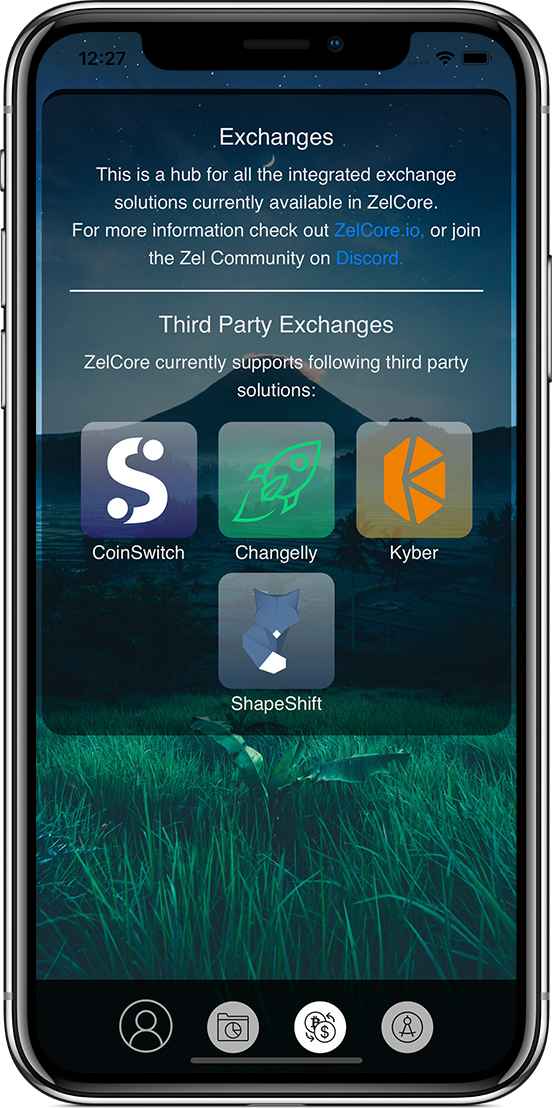
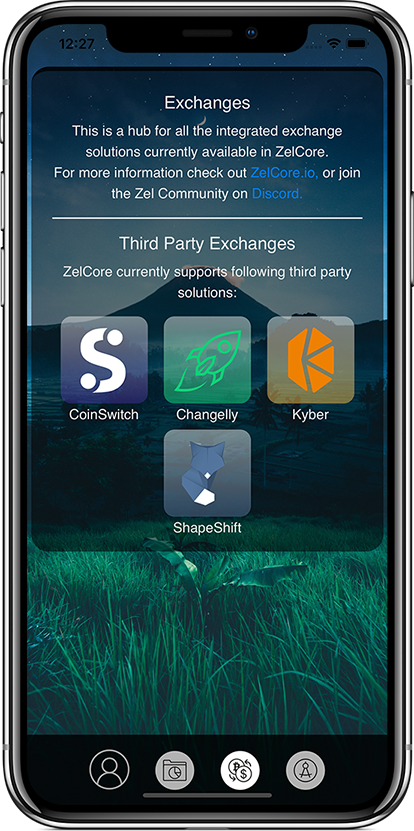
Smaller img sizes, fix Footer

diff --git a/project/zelcore/index.html b/project/zelcore/index.html
@@ -126,7 +126,7 @@
     <!-- ABOUT -->
     <div class="uk-position-relative">
         <div class="uk-position-absolute uk-position-center zelcorePosition uk-visible@s">
-            <img src="../../img/zelcore/Login.png">
+            <img class="desktopImg" src="../../img/zelcore/Login.jpg">
         </div>
         <div class="uk-position-absolute uk-position-center zelcorePosition uk-hidden@s">
             <img src="../../img/zelcore/Login-Mobile.png">
@@ -139,9 +139,19 @@
             <div class="uk-container uk-margin-xlarge-top uk-visible@s"></div>
             <div class="uk-container uk-margin-xlarge-top">
                 <div class="uk-grid-margin uk-grid uk-grid-stack" uk-grid>
-                    <div class="uk-width-1-1@m uk-first-column">
-                        <h1 class="uk-heading-primary uk-margin uk-text-center">About <span class="zel">zel</span>core</h1>
-                        <div class="uk-margin-medium uk-width-xlarge uk-margin-auto uk-text-center">ZelCore is a multi asset platform and wallet. It does this really well, but it does it even better in ZelCore+</div>
+                    <div class="uk-width-1-1@m uk-first-column uk-text-center">
+                        <h1 class="uk-heading-primary uk-margin">About <span class="zel">zel</span>core</h1>
+                        <div class="uk-margin-medium uk-width-xlarge uk-margin-auto">ZelCore is a multi asset platform and wallet. It does this really well, but it does it even better in ZelCore+</div>
+                    </div>
+                    <div class="uk-width-1-1@m uk-first-column uk-text-center">
+                        <h3>Supporting more than 100+ assets including</h3>
+                        <img src="../../img/assets/BTC.svg" class="smallImg" />
+                        <img src="../../img/assets/TUSD.svg" class="smallImg" />
+                        <img src="../../img/assets/ZEL.svg" class="smallImg" />
+                        <img src="../../img/assets/BNB.svg" class="smallImg" />
+                        <img src="../../img/assets/ETH.svg" class="smallImg" />
+                        <br>
+                        <a href="#assetsModal" uk-toggle><button class="uk-button zelcoreblack rounded uk-margin-top">And many more...</button></a>
                     </div>
                 </div>
             </div>
@@ -155,13 +165,13 @@
                 <h1 class="uk-heading-primary uk-text-left">Features</h1>
                 <div class="zelcoreFeatures uk-visible@m" uk-sticky="offset: 200; bottom: #featurestop">
                     <div class="uk-position-absolute">
-                        <img id="featureImage1" src="../../img/zelcore/Login.png">
+                        <img id="featureImage1" class="desktopImg" src="../../img/zelcore/Login.jpg">
                     </div>
                     <div class="uk-position-absolute">
-                        <img id="featureImage2" class="hidden" src="../../img/zelcore/Portfolio.png">
+                        <img id="featureImage2" class="desktopImg hidden" src="../../img/zelcore/Portfolio.jpg">
                     </div>
                     <div class="uk-position-absolute">
-                        <img id="featureImage3" class="hidden" src="../../img/zelcore/Exchanges.png">
+                        <img id="featureImage3" class="desktopImg hidden" src="../../img/zelcore/Exchanges.jpg">
                     </div>
                 </div>
             </div>
@@ -384,10 +394,9 @@
                 </div>
             </div>
             <div class="uk-child-width-expand@s" uk-grid>
-                <div>
+                <div class="uk-grid-item-match">
                     <p>Copyright &copy; 2019 Zel Technologies GmbH. All rights reserved.</p>
                 </div>
-            </div>
                 <div class="uk-text-right">
                     <a href="../../terms/index.html">Terms and Conditions</a>
                     <span class="uk-padding-small">|</span>

diff --git a/team/index.html b/team/index.html
@@ -172,10 +172,11 @@
                     <div class="uk-card-body">
                         <h1>Maxine</h1>
                         <h1 class="uk-h3 uk-margin-remove-top">Developer, Infra Team & Community Moderator</h1>
-                        <p>Maxine is a Senior Cybersecurity Specialist (network security and threat intelligence) from Singapore. His interest currently is the exploration of machine learning as well as technologies related to Cryptocurrency. Apart than that, he also a miner himself.</p>
+                        <p>Maxine is a Senior Cybersecurity Specialist (network security and threat intelligence) from Singapore. His interest currently is in the exploration of machine learning as well as technologies related to Cryptocurrency. Apart than that, he also a miner himself.</p>
                         <div class="social">
                             <a href="https://twitter.com/max1n_e" target="_blank" class="uk-button rounded twitter"><i class="fab fa-twitter"></i></a>
                             <a href="https://github.com/max1ne" target="_blank" class="uk-button rounded github"><i class="fab fa-github"></i></a>
+                            <a href="https://sg.linkedin.com/in/max1ne/" target="_blank" class="uk-button rounded linkedin"><i class="fab fa-linkedin"></i></a>
                             <a href="https://t.me/max1n_e" target="_blank" class="uk-button rounded telegram"><i class="fab fa-telegram"></i></a>
                         </div>
                     </div>
@@ -491,7 +492,7 @@
                     <div class="uk-card-body">
                         <h1><span class="zel">Marrios</span> Charmidis</h1>
                         <h1 class="uk-h3 uk-margin-remove-top">Zel Foundation, Community Moderator</h1>
-                        <p>Marrios Charmidis, the greek geek,is a passionate Mathematician and Blockchain Enthusiast. He joined the crypto industry in 2015. As a Discord Zel Moderator and Zelcore fan envisions a greater cryptocurrency adoption.</p>
+                        <p>Marrios Charmidis, the greek geek, is a passionate Mathematician and Blockchain Enthusiast. He joined the crypto industry in 2015. As a Discord Zel Moderator and Zelcore fan envisions a greater cryptocurrency adoption.</p>
                     </div>
                 </div>
             </div>
@@ -589,10 +590,9 @@
                 </div>
             </div>
             <div class="uk-child-width-expand@s" uk-grid>
-                <div>
+                <div class="uk-grid-item-match">
                     <p>Copyright &copy; 2019 Zel Technologies GmbH. All rights reserved.</p>
                 </div>
-            </div>
                 <div class="uk-text-right">
                     <a href="../terms/index.html">Terms and Conditions</a>
                     <span class="uk-padding-small">|</span>

diff --git a/project/zelcore/download.html b/project/zelcore/download.html
@@ -137,7 +137,7 @@
     
     <div class="uk-position-relative" style="z-index:998">
         <div class="uk-position-absolute uk-position-center zelcorePosition uk-visible@s">
-            <img src="../../img/zelcore/Login.png">
+            <img class="desktopImg" src="../../img/zelcore/Login.jpg">
         </div>
         <div class="uk-position-absolute uk-position-center zelcorePosition uk-hidden@s">
             <img src="../../img/zelcore/Login-Mobile.png">
@@ -246,10 +246,9 @@
                 </div>
             </div>
             <div class="uk-child-width-expand@s" uk-grid>
-                <div>
+                <div class="uk-grid-item-match">
                     <p>Copyright &copy; 2019 Zel Technologies GmbH. All rights reserved.</p>
                 </div>
-            </div>
                 <div class="uk-text-right">
                     <a href="../../terms/index.html">Terms and Conditions</a>
                     <span class="uk-padding-small">|</span>

diff --git a/project/zelcore/zelcore+.html b/project/zelcore/zelcore+.html
@@ -127,7 +127,7 @@
     
     <div class="uk-position-relative" style="z-index:998">
         <div class="uk-position-absolute uk-position-center zelcorePosition uk-visible@s">
-            <img src="../../img/zelcore/Login.png">
+            <img class="desktopImg" src="../../img/zelcore/Login.jpg">
         </div>
         <div class="uk-position-absolute uk-position-center zelcorePosition uk-hidden@s">
             <img src="../../img/zelcore/Login-Mobile.png">
@@ -211,10 +211,9 @@
                 </div>
             </div>
             <div class="uk-child-width-expand@s" uk-grid>
-                <div>
+                <div class="uk-grid-item-match">
                     <p>Copyright &copy; 2019 Zel Technologies GmbH. All rights reserved.</p>
                 </div>
-            </div>
                 <div class="uk-text-right">
                     <a href="../../terms/index.html">Terms and Conditions</a>
                     <span class="uk-padding-small">|</span>

diff --git a/project/zelid/index.html b/project/zelid/index.html
@@ -226,10 +226,9 @@
                 </div>
             </div>
             <div class="uk-child-width-expand@s" uk-grid>
-                <div>
+                <div class="uk-grid-item-match">
                     <p>Copyright &copy; 2019 Zel Technologies GmbH. All rights reserved.</p>
                 </div>
-            </div>
                 <div class="uk-text-right">
                     <a href="../../terms/index.html">Terms and Conditions</a>
                     <span class="uk-padding-small">|</span>

diff --git a/project/zelnodes/index.html b/project/zelnodes/index.html
@@ -313,10 +313,9 @@
                 </div>
             </div>
             <div class="uk-child-width-expand@s" uk-grid>
-                <div>
+                <div class="uk-grid-item-match">
                     <p>Copyright &copy; 2019 Zel Technologies GmbH. All rights reserved.</p>
                 </div>
-            </div>
                 <div class="uk-text-right">
                     <a href="../../terms/index.html">Terms and Conditions</a>
                     <span class="uk-padding-small">|</span>

diff --git a/news/index.html b/news/index.html
@@ -112,10 +112,9 @@
                 </div>
             </div>
             <div class="uk-child-width-expand@s" uk-grid>
-                <div>
+                <div class="uk-grid-item-match">
                     <p>Copyright &copy; 2019 Zel Technologies GmbH. All rights reserved.</p>
                 </div>
-            </div>
                 <div class="uk-text-right">
                     <a href="../terms/index.html">Terms and Conditions</a>
                     <span class="uk-padding-small">|</span>

diff --git a/partners/index.html b/partners/index.html
@@ -266,10 +266,9 @@
                 </div>
             </div>
             <div class="uk-child-width-expand@s" uk-grid>
-                <div>
+                <div class="uk-grid-item-match">
                     <p>Copyright &copy; 2019 Zel Technologies GmbH. All rights reserved.</p>
                 </div>
-            </div>
                 <div class="uk-text-right">
                     <a href="../terms/index.html">Terms and Conditions</a>
                     <span class="uk-padding-small">|</span>

diff --git a/press/index.html b/press/index.html
@@ -173,10 +173,9 @@
                 </div>
             </div>
             <div class="uk-child-width-expand@s" uk-grid>
-                <div>
+                <div class="uk-grid-item-match">
                     <p>Copyright &copy; 2019 Zel Technologies GmbH. All rights reserved.</p>
                 </div>
-            </div>
                 <div class="uk-text-right">
                     <a href="../terms/index.html">Terms and Conditions</a>
                     <span class="uk-padding-small">|</span>

diff --git a/privacy/index.html b/privacy/index.html
@@ -141,10 +141,9 @@
                 </div>
             </div>
             <div class="uk-child-width-expand@s" uk-grid>
-                <div>
+                <div class="uk-grid-item-match">
                     <p>Copyright &copy; 2019 Zel Technologies GmbH. All rights reserved.</p>
                 </div>
-            </div>
                 <div class="uk-text-right">
                     <a href="../terms/index.html">Terms and Conditions</a>
                     <span class="uk-padding-small">|</span>

diff --git a/project/index.html b/project/index.html
@@ -198,10 +198,9 @@
                 </div>
             </div>
             <div class="uk-child-width-expand@s" uk-grid>
-                <div>
+                <div class="uk-grid-item-match">
                     <p>Copyright &copy; 2019 Zel Technologies GmbH. All rights reserved.</p>
                 </div>
-            </div>
                 <div class="uk-text-right">
                     <a href="../terms/index.html">Terms and Conditions</a>
                     <span class="uk-padding-small">|</span>

diff --git a/terms/index.html b/terms/index.html
@@ -117,10 +117,9 @@
                 </div>
             </div>
             <div class="uk-child-width-expand@s" uk-grid>
-                <div>
+                <div class="uk-grid-item-match">
                     <p>Copyright &copy; 2019 Zel Technologies GmbH. All rights reserved.</p>
                 </div>
-            </div>
                 <div class="uk-text-right">
                     <a href="../terms/index.html">Terms and Conditions</a>
                     <span class="uk-padding-small">|</span>
